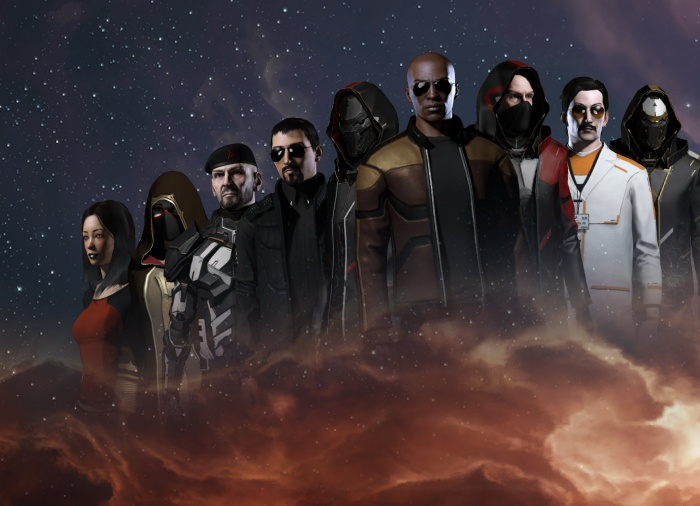
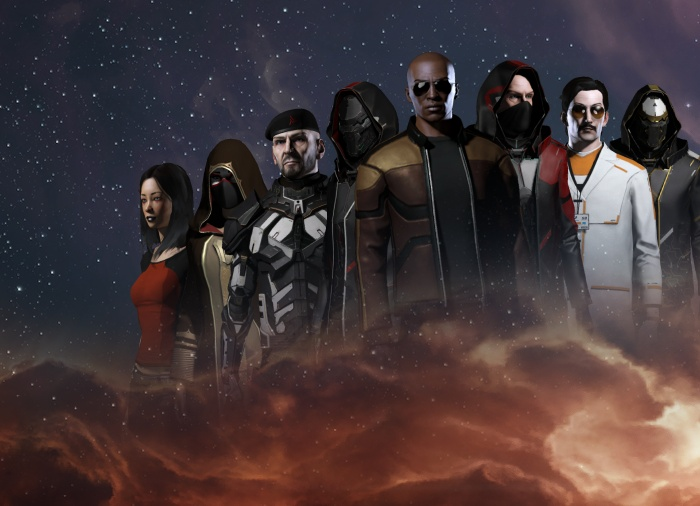
Minimal updates and fixes (#992)
* Updated corps banner

* Removed trailing / to prevent double // on the sharing URL

* Updated homepage corporations  cover

Changed region(s): [[0.09, 0.2075, 0.48, 0.7708]]

diff --git a/frontend/app/src/helpers/string.ts b/frontend/app/src/helpers/string.ts
@@ -101,3 +101,7 @@ export const b64_to_Uint8Array = (b64encoded_string:string):Uint8Array => {
 
     return uint8Array
 }
+
+export const remove_trailing_slash = (str:string) => {
+    return str.replace(/\/$/, '')
+}
